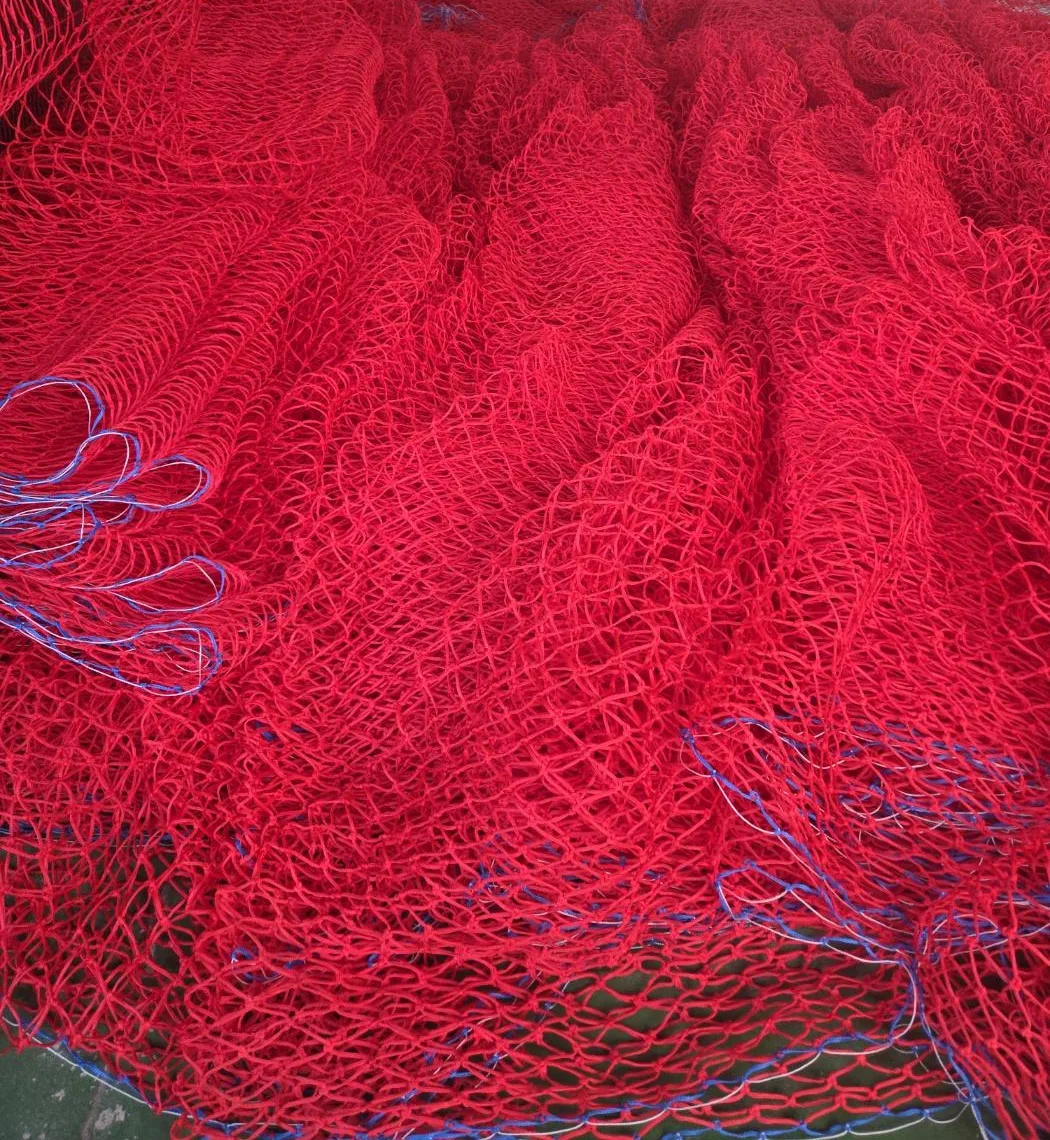
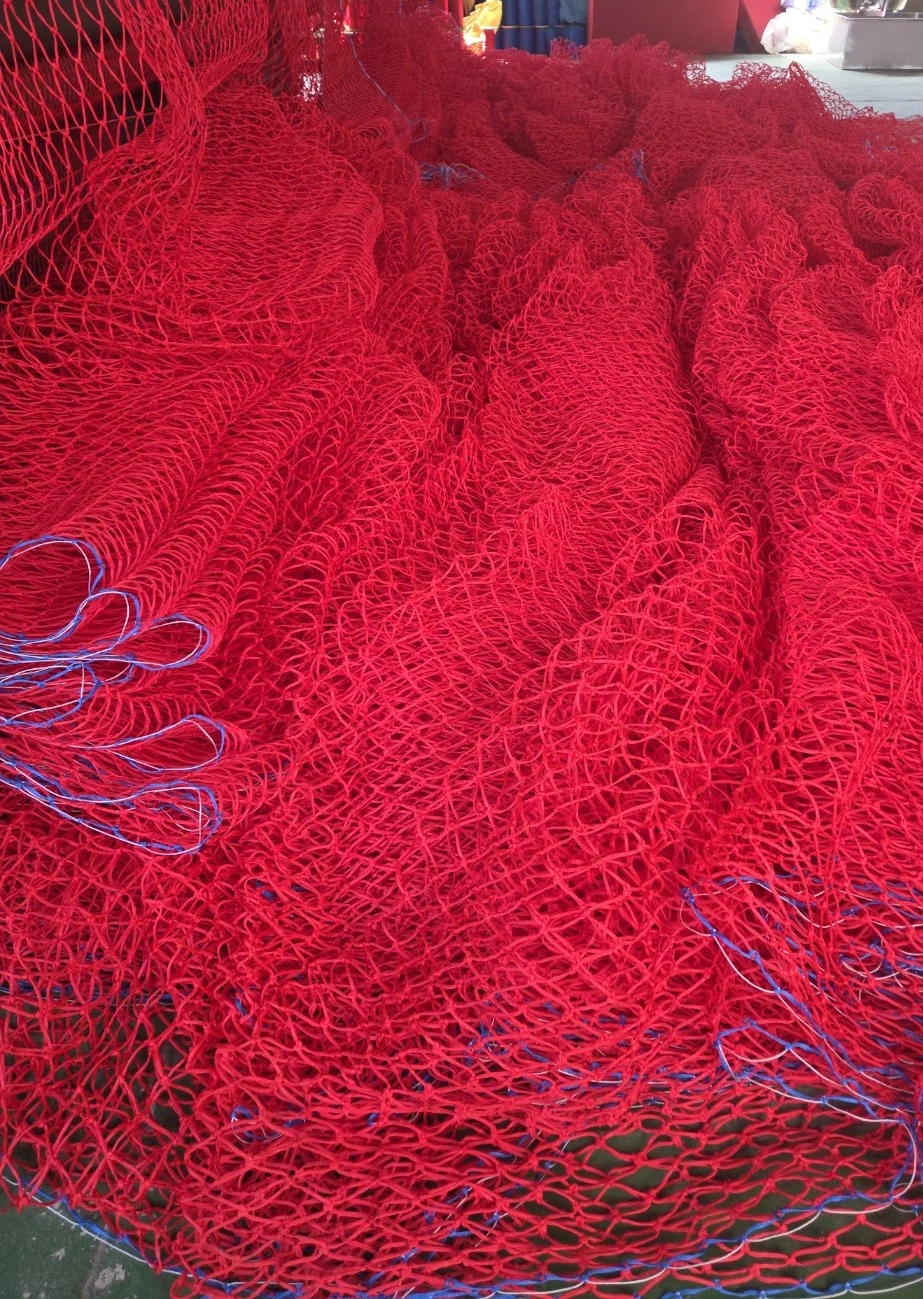
사진 위치 조정 (어망 출고, 스키망, 야구 커튼망)
Claude-Session: https://claude.ai/code/session_016Jpnc8ur7Bp4cNEGJ4pZN2

diff --git a/app/ko/products/sports/page.tsx b/app/ko/products/sports/page.tsx
@@ -38,9 +38,8 @@ export default function Page() {
         en="BASEBALL NET"
         kr="야구망"
         lead={<>외야 펜스, 파울망, 배팅케이지.<br />야구장과 학교 운동장을 지킵니다.</>}
-        hero={IMG.baseballCurtain}
-        heroPos="center 85%"
-        heroAlt="실내 야구장 커튼망 설치 현장"
+        hero={IMG.baseballField}
+        heroAlt="야구장 비구방지망 설치 현장"
         install={true}
         features={[
     { title: "무결망 · 결망", desc: "현장에 맞춰 두 가지 모두 제작합니다." },
@@ -57,7 +56,7 @@ export default function Page() {
         photos={[
     { src: IMG.baseballEdge, alt: "야구망 테두리 마감" },
     { src: IMG.sportsRoll, alt: "야구망 원단 롤 — 세경네트 자체 생산" },
-    { src: IMG.shipping, alt: "출고 준비된 야구망" }
+    { src: IMG.baseballCurtainTop, alt: "실내 야구장 커튼망 설치 현장" }
         ]}
       />
     </>

diff --git a/components/ko/site.ts b/components/ko/site.ts
@@ -25,6 +25,7 @@ export const IMG = {
   skiNet: "/assets_webp/products/new/ski-net.webp",
   baseballEdge: "/assets_webp/products/new/baseball-net-edge.webp",
   shipping: "/assets_webp/products/new/shipping-pallet.webp",
+  baseballCurtainTop: "/assets_webp/products/new/baseball-curtain-top.webp",
   golfRange: "/assets_webp/products/new/golf-range.webp",
 };
 

diff --git a/app/ko/products/fishery/page.tsx b/app/ko/products/fishery/page.tsx
@@ -47,7 +47,7 @@ export default function Page() {
       photos={[
         { src: IMG.fishNet, alt: "어망 원단" },
         { src: IMG.fishCage, alt: "양식장 가두리" },
-        { src: IMG.yarn, alt: "원사 준비" },
+        { src: IMG.shipping, alt: "출고 준비된 그물 원단" },
       ]}
     />
   );
